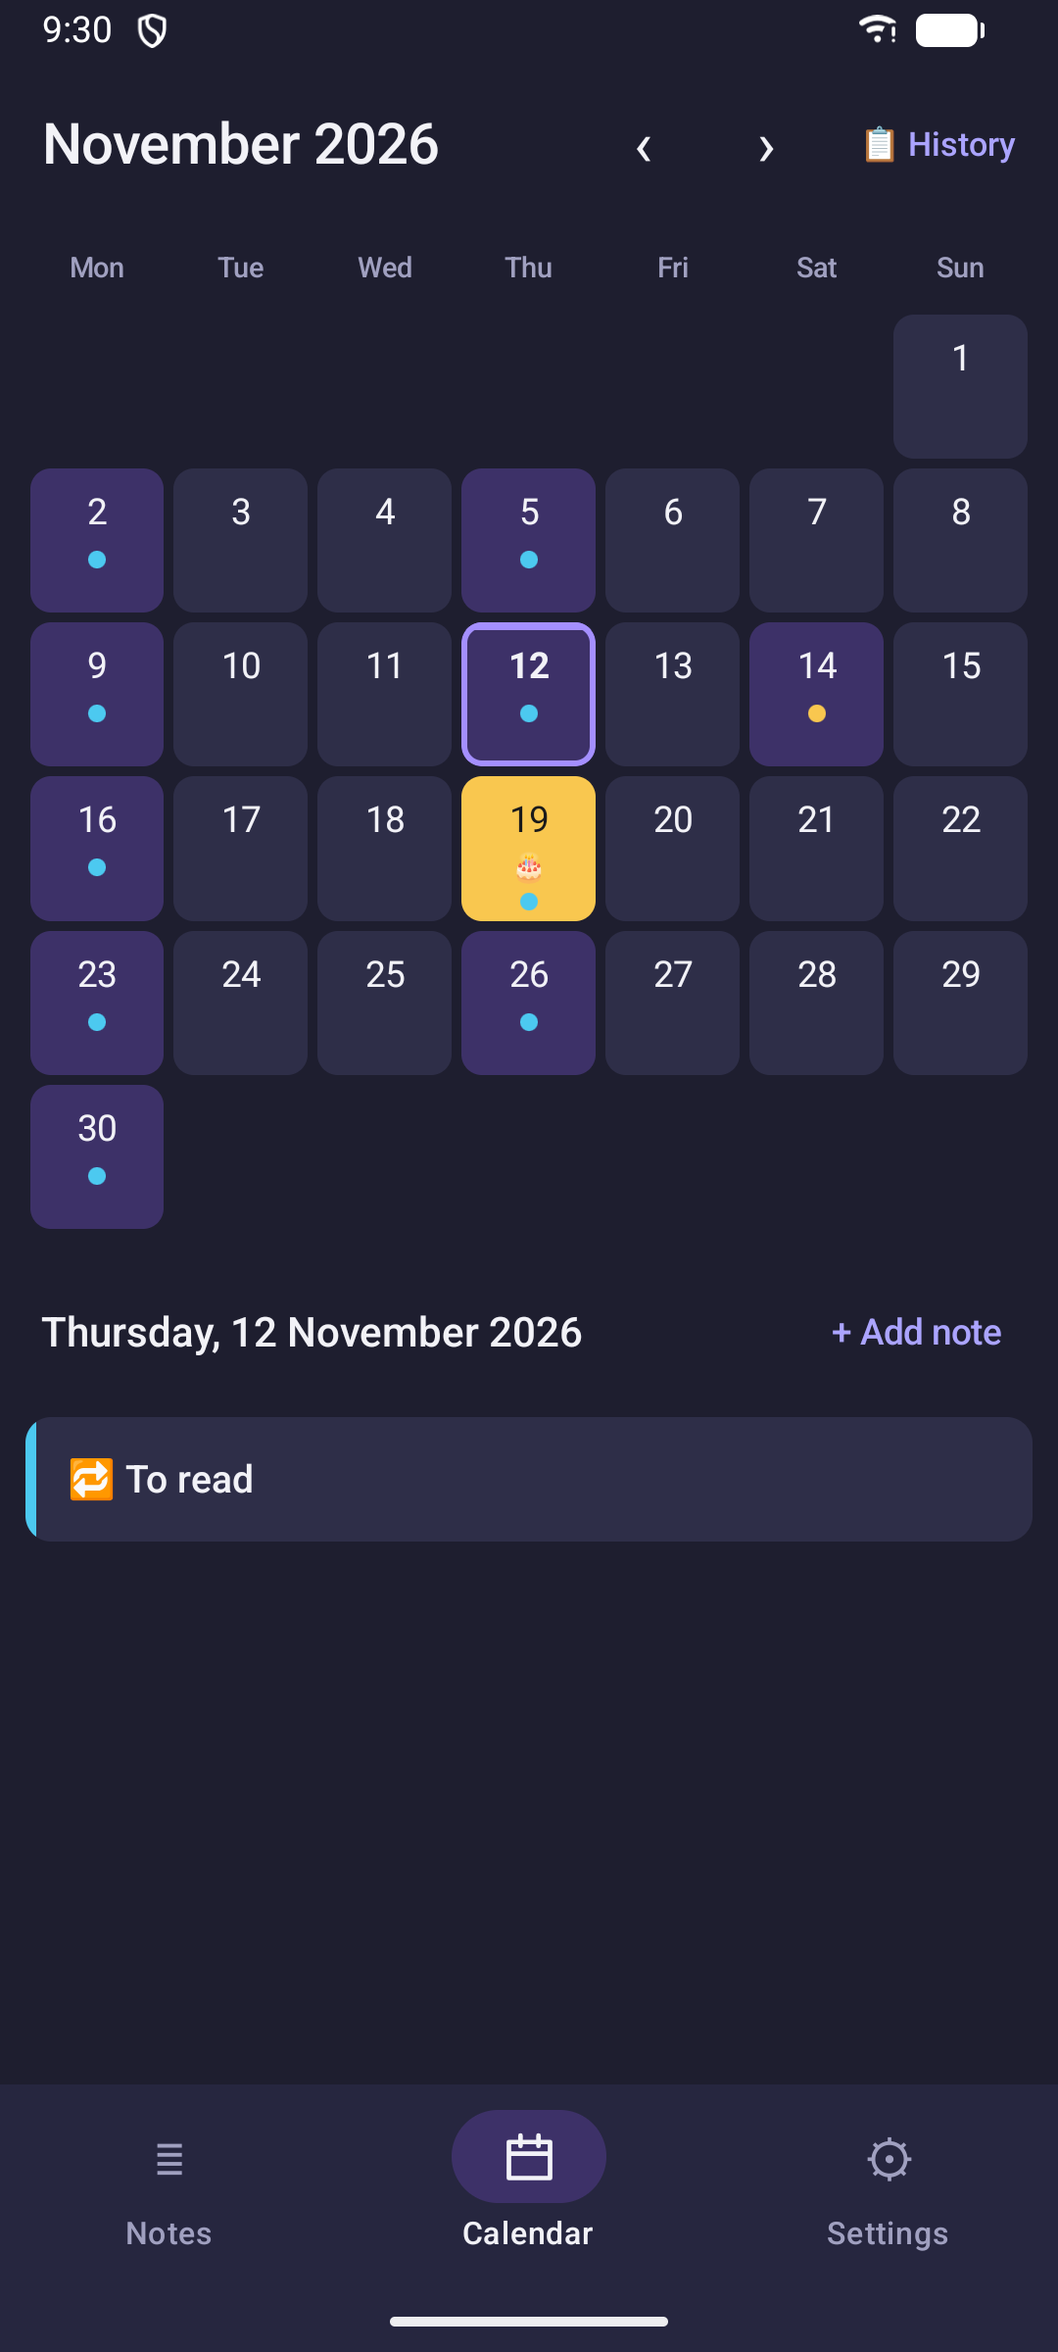
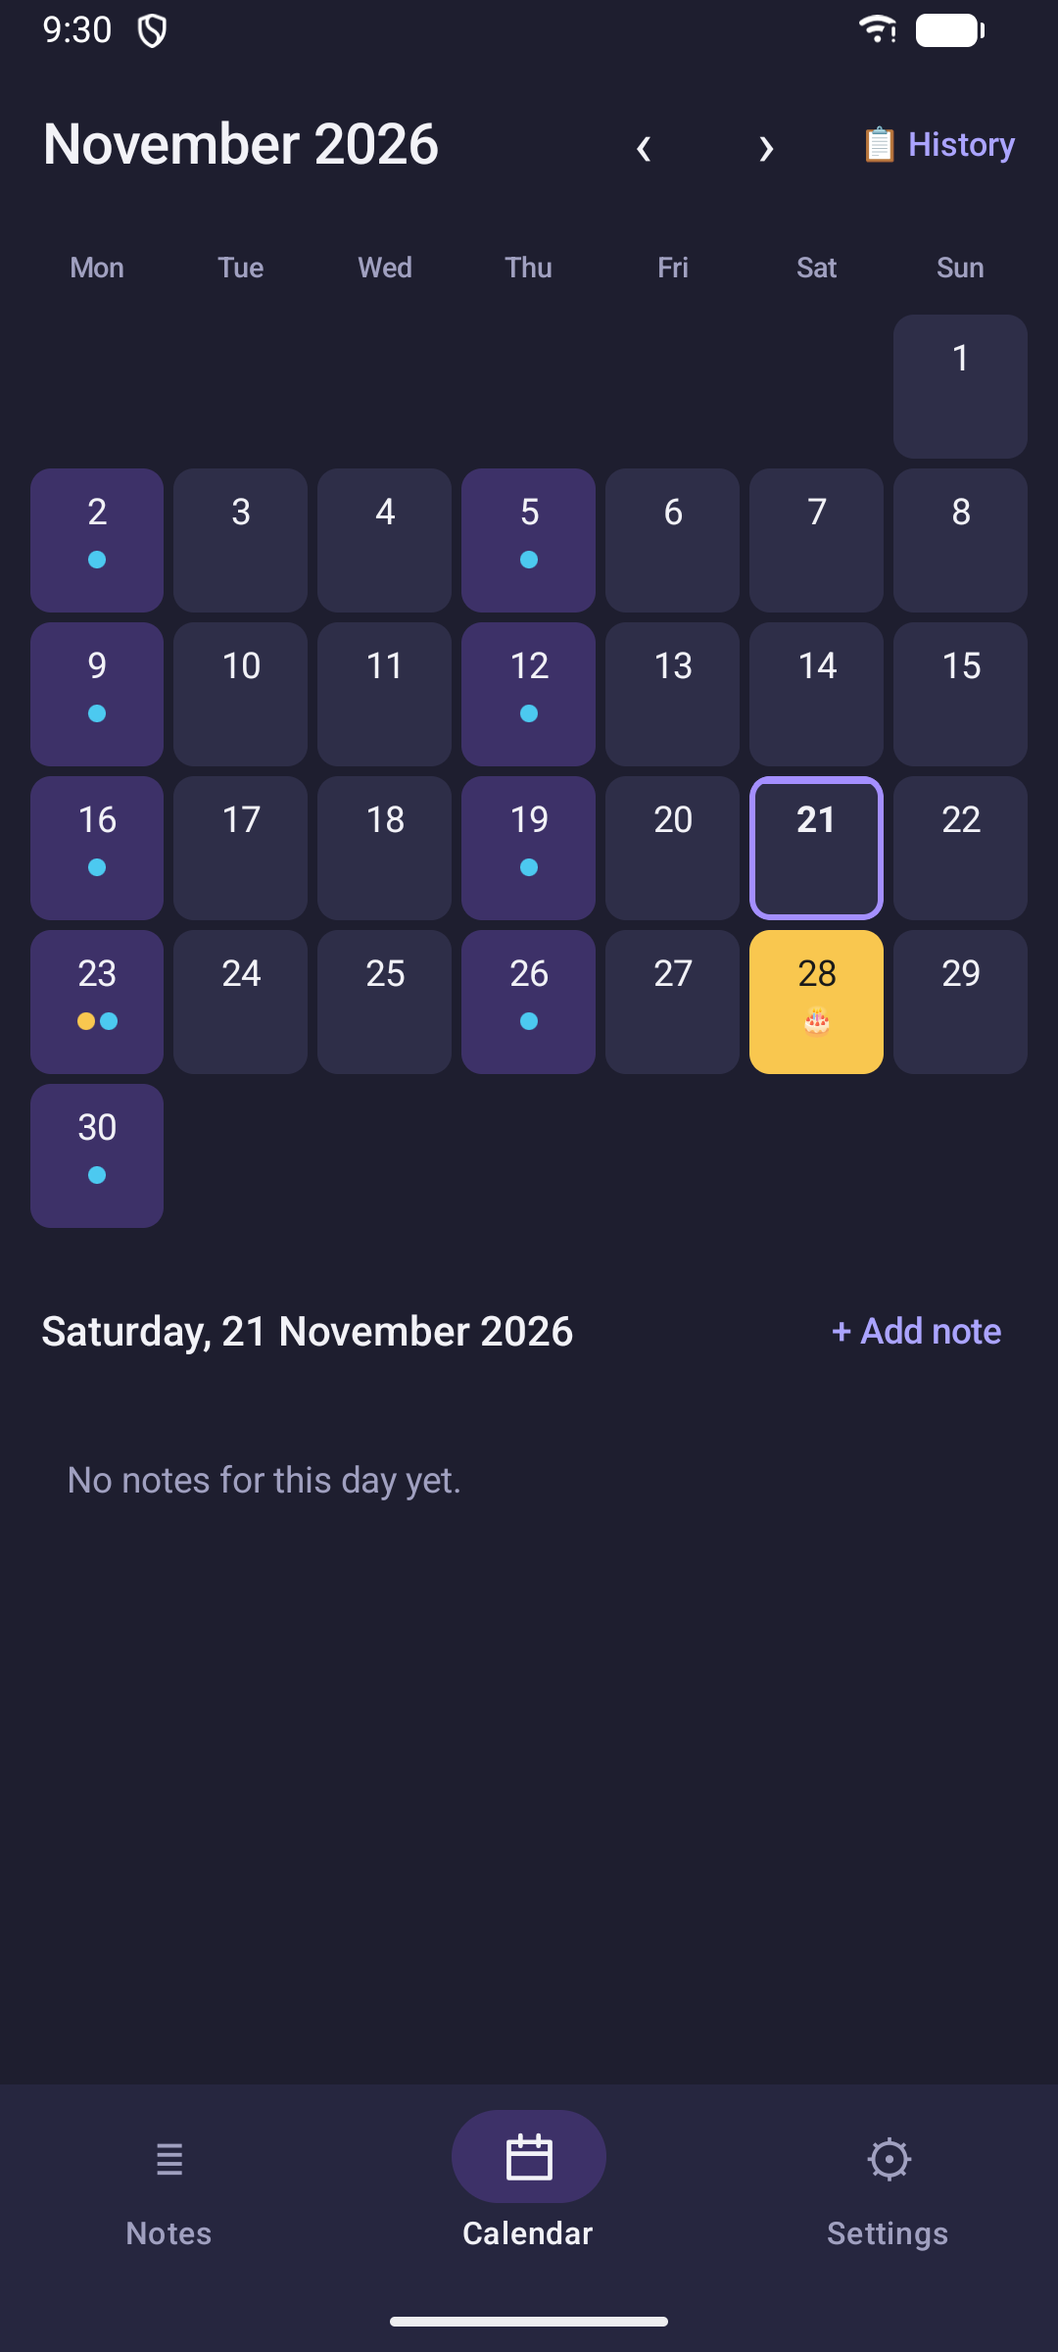
screenshots: a note being written in, a wider table, Appearance's new sentence
The set taken again on 0.15.0 (2026-11-21), light, dark and demo.gif in
one run, for two asks of the review panel of 2026-11-15 and one stale
picture:

- 12-writing (and -dark), new: the bread note with the cursor at the
  end of its words and the format bar on the keyboard. The stills had
  shown the editor only at rest, its tools out of sight. A shot can now
  keep the keyboard, and is refused when none came up. tap_end taps the
  foot of the field at its right: tapped at its centre, the cursor
  landed on the empty line and its handle stood over the K of "Knead".
  The keyboard follows the phone's light or dark, not the app's, so the
  dark pass sets the phone dark and puts it back as found.
- The expenses table has a third column, the day each bill was paid:
  two columns filled a third of the screen.
- 05-appearance(-dark) showed the sentence 75c0811 changed.

Every picture looked at, all 23 and the GIF's ten frames; the first
run's 12-writing was the one refused by eye (the handle over the K).
The phone's README shows 12-writing where 02-a-note was; the site's
gallery takes it when the site is rebuilt.

No mutant: a tool and the documentation's pictures, no app code.

diff --git a/tools/emulator/take_screenshots.py b/tools/emulator/take_screenshots.py
@@ -74,9 +74,14 @@ NOTES = [
      # Written as the app writes a table: the figures right-aligned by
      # the spaces before them, which is where both apps keep a cell's
      # alignment. A markdown "---:" under them read as a column set by
-     # hand to four characters, and the header was drawn "How…".
-     "body": "| What        |  How much |\n| rent        |      1500 |\n"
-             "| electricity |       180 |\n| internet    |        60 |",
+     # hand to four characters, and the header was drawn "How…". Three
+     # columns, the day each was paid between the two: two filled a
+     # third of the screen and left the rest empty (the review panel,
+     # 2026-11-15).
+     "body": "| What        | Paid on  |  How much |\n"
+             "| rent        | 1 Sep    |      1500 |\n"
+             "| electricity | 12 Sep   |       180 |\n"
+             "| internet    | 20 Sep   |        60 |",
      "category": "General",
      "created": "2026-10-13 18:00:00", "updated": "2026-10-13 18:20:00"},
     {"id": 3, "uid": "shot-idea", "title": "",
@@ -136,7 +141,9 @@ DARK_WORDS = {
 }
 
 # name, what it shows, the steps that get there, what the screen must
-# say, and what it must NOT say once it has arrived.
+# say, and what it must NOT say once it has arrived. KEYBOARD after them
+# keeps the keyboard in the picture, and refuses one taken without it.
+KEYBOARD = "keyboard"
 SHOTS = [
     ("01-note-list", "The note list: greeting, cards, badges, a pinned note",
      [],
@@ -144,9 +151,16 @@ SHOTS = [
     ("02-a-note", "A note open in the editor, its styling and checklist drawn",
      [("tap", "Home-made bread")],
      ["Home-made bread", "500 g flour", "yeast"], []),
+    # The same note being written in: the cursor in its words, the format
+    # bar above the keyboard. The stills had shown the editor only at rest,
+    # its tools out of sight (the review panel, 2026-11-15). Nothing is
+    # typed, so the note is not changed.
+    ("12-writing", "Writing in a note: the cursor in its words, the format bar above the keyboard",
+     [("tap_end", "Knead for 10")],
+     ["Home-made bread", "Select text to format it"], [], KEYBOARD),
     ("03-a-table", "A table drawn as a grid rather than as pipe rows",
      [("back_to", "Search notes"), ("tap", "September expenses")],
-     ["September expenses", "electricity", "1500"], []),
+     ["September expenses", "Paid on", "electricity", "1500"], []),
     ("04-search", "Search narrowing four notes to one, on a word in its body",
      [("back_to", "Search notes"), ("tap", "Search notes"), ("type", "boat")],
      ["boat trip"], ["Home-made bread", "September expenses"]),
@@ -275,8 +289,9 @@ def demo_status_bar(on):
             "-e", "command", "exit")
 
 
-def nodes():
-    """The screen's UI tree, fresh: (text, description, centre, class)."""
+def nodes(boxes=False):
+    """The screen's UI tree, fresh: (text, description, centre, class), or
+    with [boxes] the node's box (left, top, right, bottom) for its centre."""
     raw = fresh_tree(adb_bytes)
     try:
         root = ET.fromstring(raw)
@@ -289,7 +304,7 @@ def nodes():
             continue
         centre = ((bounds[0] + bounds[2]) // 2, (bounds[1] + bounds[3]) // 2)
         found.append((node.get("text", ""), node.get("content-desc", ""),
-                      centre, node.get("class", "")))
+                      bounds if boxes else centre, node.get("class", "")))
     return found
 
 
@@ -313,6 +328,25 @@ def tap(label, exact=False, patience=3.0):
             break
         time.sleep(0.4)
     print("   not found on screen: %r" % label)
+    return False
+
+
+def tap_end(label, patience=3.0):
+    """Tap the foot of the text field that says [label], at its right: the
+    cursor goes to the end of its words, and its handle hangs under them.
+    Tapped at the centre, the cursor landed on the bread's empty line and
+    its handle stood over the K of "Knead" (2026-11-21)."""
+    deadline = time.time() + patience
+    while True:
+        for text, _desc, box, kind in nodes(boxes=True):
+            if label in text and kind.endswith("EditText"):
+                adb("shell", "input", "tap", str(box[2] - 24), str(box[3] - 12))
+                time.sleep(1.5)
+                return True
+        if time.time() > deadline:
+            break
+        time.sleep(0.4)
+    print("   no text field says: %r" % label)
     return False
 
 
@@ -346,6 +380,8 @@ def act(step):
         return tap(step[1])
     if kind == "tap_exact":
         return tap(step[1], exact=True)
+    if kind == "tap_end":
+        return tap_end(step[1])
     if kind == "type":
         adb("shell", "input", "text", step[1].replace(" ", "%s"))
         time.sleep(1.5)
@@ -480,26 +516,37 @@ def main():
     # The turning as found, put back in the finally below.
     found = {key: adb("shell", "settings", "get", "system", key).strip()
              for key in ("accelerometer_rotation", "user_rotation")}
+    # The keyboard follows the phone's own light or dark, not the app's: the
+    # dark pass makes the phone dark too, as it mostly is under a dark theme,
+    # or 12-writing-dark showed a white keyboard under a dark note. "Night
+    # mode: no", as found, put back in the finally below.
+    night = adb("shell", "cmd", "uimode", "night").strip().rsplit(":", 1)[-1].strip()
 
     gif = "--gif" in sys.argv[1:]
     passes = () if gif else ((SETTINGS, ""), (DARK, "-dark"))
     failed = []
     try:
         for settings, suffix in passes:
+            adb("shell", "cmd", "uimode", "night", "yes" if suffix else "no")
             if not seed(settings):
                 return 1
             demo_status_bar(True)
-            for name, caption, steps, present, absent in SHOTS:
+            for name, caption, steps, present, absent, *rest in SHOTS:
                 if suffix and name in DARK_PASS_SKIPS:
                     continue
                 if suffix:
                     present, absent = DARK_WORDS.get(name, (present, absent))
+                keyboard = KEYBOARD in rest
                 name += suffix
                 print("-- %s: %s" % (name, caption))
                 if not all(act(step) for step in steps):
                     failed.append(name)
                     continue
-                data = shutter(present, absent)
+                if keyboard and not any(keyboard_up() or time.sleep(0.5) for _ in range(10)):
+                    print("   no keyboard came up -- not photographing")
+                    failed.append(name)
+                    continue
+                data = shutter(present, absent, keyboard)
                 if data is None:
                     failed.append(name)
                     continue
@@ -529,6 +576,14 @@ def main():
                 now = "(adb did not answer)"
             if now != value:
                 print("the emulator's %s is %s, not %r as found: set it back by hand" % (key, now, value))
+        try:
+            if night in ("yes", "no", "auto"):
+                adb("shell", "cmd", "uimode", "night", night)
+            now = adb("shell", "cmd", "uimode", "night").strip().rsplit(":", 1)[-1].strip()
+        except (Exception, SystemExit):  # noqa: BLE001 -- under the run's own error
+            now = "(adb did not answer)"
+        if now != night:
+            print("the emulator's night mode is %s, not %r as found: set it back by hand" % (now, night))
         demo_status_bar(False)
 
     print()

diff --git a/docs/screenshots/README.md b/docs/screenshots/README.md
@@ -45,9 +45,12 @@ fixes the clock at 9:30 and the battery at full, so the frame is the app
 rather than whatever notification the emulator had pending that
 afternoon; the mobile-signal icon is hidden, because demo mode draws it
 white whatever the page behind it. It is all turned off again at the
-end. The on-screen keyboard is dismissed before every still picture — it
-is half the screen and none of it is this app — and kept only in the
-four frames of the moving picture that show the typing.
+end. The on-screen keyboard is dismissed before every still picture but
+one — it is half the screen and none of it is this app — and kept in
+`12-writing`, whose point is the format bar standing on it, and in the
+four frames of the moving picture that show the typing. The keyboard
+follows the phone's light or dark, not the app's, so the dark pass sets
+the phone dark too, and puts it back as it was after.
 
 **The pictures are looked at before they are committed.** Two bugs were
 found that way while this set was made: the card printing a date the way
@@ -61,7 +64,8 @@ white signal icon.
 |---|---|
 | `01-note-list.png` | The note list in Soft Lavender: the greeting, search, sort and show, and the cards — colour stripe, headline, preview, and the category, date, table, checklist and repeat badges. The pinned note floats to the top; the last card has no title, so it borrows its first line, set lighter |
 | `02-a-note.png` | A note open in the editor, its bold first line drawn and its checklist below, ticked rows struck through |
-| `03-a-table.png` | A table drawn as a grid rather than as the pipe rows it is stored as, its figures right-aligned, as the spaces in those rows say |
+| `12-writing.png` | The same note being written in: the cursor at the end of its words, and on the keyboard the format bar — bold, italic, underline and strikethrough, colour and highlight, size and typeface, lists, indents, alignment, and a table |
+| `03-a-table.png` | A table drawn as a grid rather than as the pipe rows it is stored as: its header row bold on the accent's tint, the day each bill was paid, and the figures right-aligned, as the spaces in those rows say |
 | `04-search.png` | Search: one of four notes left, matched on a word in its body rather than its title |
 | `05-appearance.png` | Settings → Appearance: the Light \| Dark switch, and the four light themes |
 | `06-dark.png` | The same list in Midnight Purple |
@@ -72,7 +76,8 @@ white signal icon.
 | `11-empty.png` | What a person meets before writing anything: the greeting, search, and "No notes yet. Tap + to write your first." over an empty list |
 | `01-note-list-dark.png` | The note list in Midnight Purple: the greeting, search, sort and show, and the same cards with their stripes and badges, the pinned note at the top |
 | `02-a-note-dark.png` | The bread note open in Midnight Purple, its bold first line and its checklist below, ticked rows struck through |
-| `03-a-table-dark.png` | The expenses table in Midnight Purple, drawn as a grid, its figures right-aligned |
+| `12-writing-dark.png` | The bread note being written in, in Midnight Purple: the format bar on a keyboard the phone has made dark too |
+| `03-a-table-dark.png` | The expenses table in Midnight Purple, drawn as a grid, its header row tinted and its figures right-aligned |
 | `04-search-dark.png` | Search in Midnight Purple: one of four notes left, matched on a word in its body |
 | `05-appearance-dark.png` | Settings → Appearance in a dark theme: the Light \| Dark switch, and the four dark themes |
 | `07-calendar-dark.png` | The calendar in Midnight Purple: the series' Mondays and Thursdays as dots, a dated note, and the painted birthday |
@@ -93,17 +98,20 @@ The calendar opens on the month it is run in, so the seed's dates are
 worked out from that day: a month photographed later with an earlier
 month's notes in it would be an empty grid.
 
-**Current set:** captured 2026-11-12 on the emulator, in English, for
-0.14.1, the light set and the dark one in one run, with the empty list
-new in it (the review panel's ask). The notebook marks the
+**Current set:** captured 2026-11-21 on the emulator, in English, for
+0.15.0 — the light set, the dark one and `demo.gif` in one run — after
+Appearance's sentence changed, with the writing picture and the table's
+third column new in it (the review panel's asks of 2026-11-15: the
+editor had been shown only at rest, its tools out of sight, and two
+columns filled a third of the screen). The notebook marks the
 day's reminder as already shown, so a day the series falls on does not
 put its bar over the list; the table's seed is written as the app writes
 a table, its figures right-aligned by the spaces before them (a markdown
 `---:` under them read as a column set by hand to four characters, and
-the header was drawn "How…" — the 2026-10-23 retake). Against that
-day's light set, these differ by the date the calendar opens on and the
-dates worked out from it. `demo.gif` was made the same day for 0.14.2
-(the review panel's ask), and the whole set taken again that evening on
-0.14.2, to prove the tool's new waits: the dark pictures came out the
-same to the byte, the light ones differ only where the status bar's
-clock sits. Update this line whenever the set is recaptured.
+the header was drawn "How…" — the 2026-10-23 retake). The set before it
+was taken on 2026-11-12 for 0.14.1, with the empty list new in it, and
+`demo.gif` the same day for 0.14.2 (both the review panel's asks); the
+whole set was taken again that evening on 0.14.2, to prove the tool's
+new waits: the dark pictures came out the same to the byte, the light
+ones differ only where the status bar's clock sits. Update this line
+whenever the set is recaptured.

diff --git a/tools/emulator/README.md b/tools/emulator/README.md
@@ -26,7 +26,7 @@ the group runner on 2026-11-12; and the walk for older Androids on
 | `emulator_only.py` | the one door every script here sends adb through: it picks the running emulator, honours `ANDROID_SERIAL` only when that names an emulator, and refuses a real phone outright (an emulator says `ro.kernel.qemu` or `ro.boot.qemu` is 1; a phone says 0 or nothing) | these scripts clear the app's data, write notebooks into it and install builds with mutations in them; with a person's own phone plugged in beside the emulator, a script that picked "the device" could do all of that to their notes |
 | `tap_by_text.py "Some label"` | dumps the live UI tree, finds the node whose text contains the label, taps its centre | tapping remembered coordinates lands on whatever moved into that spot; the dump is taken FRESH every time |
 | `walk_groups.py` | walks the whole walk in groups of ten parts, each on an emulator it starts cold, on its own port and without a window, and stops after; a group whose emulator, not the app, got stuck is walked once more. It writes one summary and an exit code that is 0 only when every part was walked and every check passed. `walk_groups_selftest.py` proves those promises against a fake emulator, adb and walk, and `--mutants` breaks each on purpose | a whole walk on one emulator lost it twice in five runs; the runner uses and stops only the emulator it started ([how it is run](../../qa/README.md#the-emulator-walk)) |
-| `take_screenshots.py` | writes a notebook made for the camera straight into the app's own storage, walks eleven screens — three of them on its side — and photographs each one, then the same screens again in a dark theme (`NN-name-dark.png`). With `--gif`, the README's `demo.gif` instead: ten frames on the same notebook, a note written in it and read back from the file | the pictures in [docs/screenshots/](../../docs/screenshots/) are remade by one command instead of by hand, and each shot names the words that must be on screen — and those that must be gone — before the shutter opens, waiting up to ten seconds for them; a screen that does not say them is not photographed |
+| `take_screenshots.py` | writes a notebook made for the camera straight into the app's own storage, walks twelve screens — three of them on its side, one with the keyboard up to write in a note — and photographs each one, then the same screens again in a dark theme (`NN-name-dark.png`). With `--gif`, the README's `demo.gif` instead: ten frames on the same notebook, a note written in it and read back from the file | the pictures in [docs/screenshots/](../../docs/screenshots/) are remade by one command instead of by hand, and each shot names the words that must be on screen — and those that must be gone — before the shutter opens, waiting up to ten seconds for them; a screen that does not say them is not photographed |
 | `type_code.py <file> <x> <y>` | taps the field at (x, y), types the file's contents in 100-character pieces, then dumps the UI and compares what arrived against the original | `adb shell input text` truncated a 634-character share code at 181 — silently. A code cut short is indistinguishable from a damaged one, so the typing is verified rather than assumed |
 | `older_android.py <folder> --avd <name> [--avd ...]` | on each emulator named, started cold and stopped after: the first start (and that no keyboard opens), a note written and read back, the calendar, a dark theme, the phone turned, the share sheet, the reminders page, the system's file picker, a restart, with Android's crash log read for the app after every step ([older Androids](#older-androids)) | the app says it runs from Android 8.0 and had run on 16 and 17 only; the whole walk reads the Android it was written on and loses its way on 8. Its first run found the search box's keyboard opening at every start on Android 8 |
 

diff --git a/README.md b/README.md
@@ -33,7 +33,7 @@ in the desktop app's repository.
 </p>
 
 <p align="center">
-  <img src="docs/screenshots/02-a-note.png" alt="A note open, its formatting and checklist drawn" width="170">
+  <img src="docs/screenshots/12-writing.png" alt="Writing in a note: the format bar above the keyboard" width="170">
   <img src="docs/screenshots/03-a-table.png" alt="A table drawn as a grid" width="170">
   <img src="docs/screenshots/04-search.png" alt="Search narrowing four notes to one" width="170">
   <img src="docs/screenshots/05-appearance.png" alt="Settings, Appearance" width="170">
